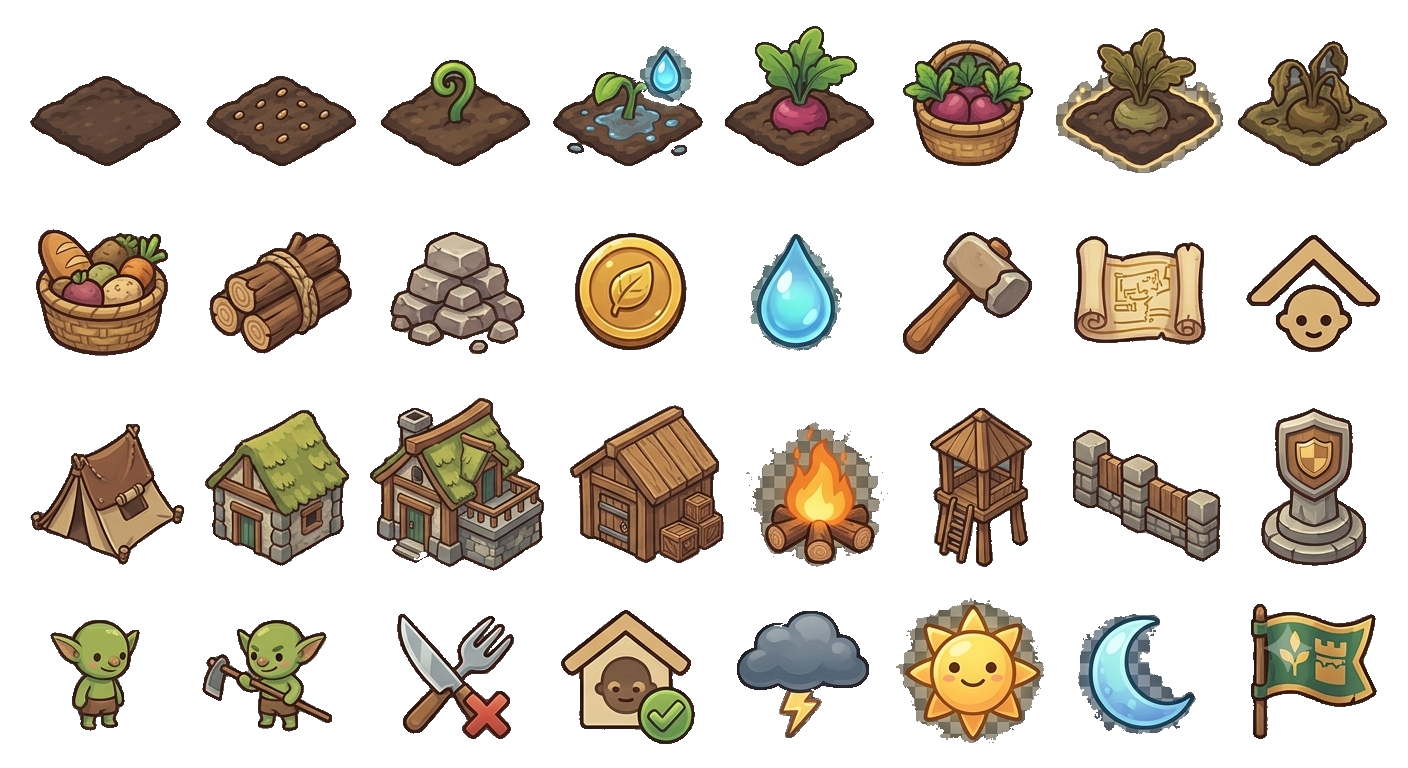
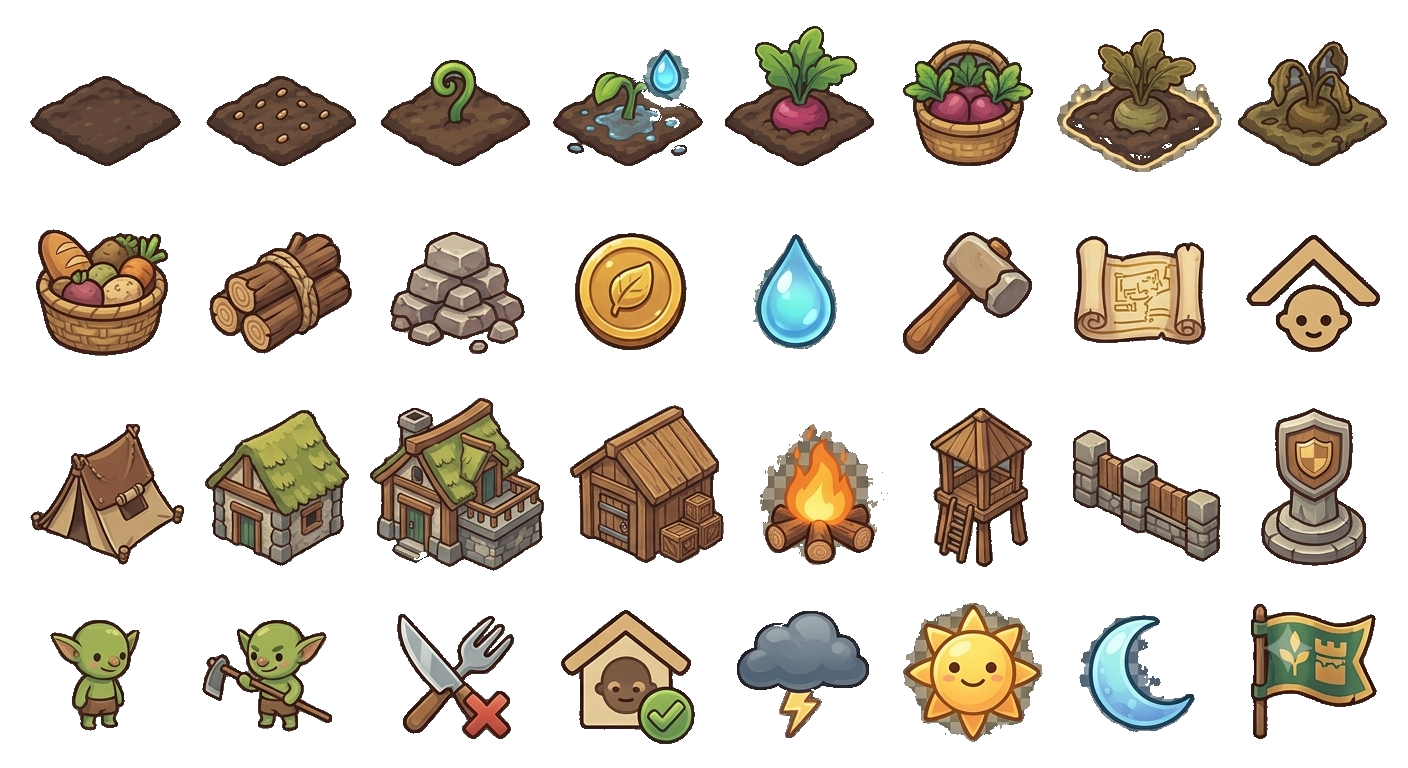
docs: correct farm settlement cleanup candidate

diff --git a/docs/assets/TINY_GOBLIN_ACADEMY_H5_52B_FARM_SETTLEMENT_TARGETED_CLEANUP_CORRECTION.md b/docs/assets/TINY_GOBLIN_ACADEMY_H5_52B_FARM_SETTLEMENT_TARGETED_CLEANUP_CORRECTION.md
@@ -1,0 +1,65 @@
+# Tiny Goblin Academy — H5.52B Farm Settlement Targeted Cleanup Correction
+
+## Purpose
+
+H5.52B records a targeted cleanup correction for the Farm Settlement cleanup candidate after human review found visible baked checkerboard/background remnants on six regions.
+
+This is not a promotion pass. The cleanup candidate remains draft, needs human review, and is not runtime-approved.
+
+## Baseline
+
+- H5.52 commit: `a764222 docs: add farm settlement cleanup candidate`
+- Source sheet: `assets/academy/games/farm-settlement/tga-farm-settlement-sheet-v0.1.png`
+- Current derived cleanup candidate: `assets/academy/games/farm-settlement/derived/tga-farm-settlement-cleaned-v0.1.png`
+- Cleanup manifest: `manifests/academy.farm-settlement.cleanup-candidate.json`
+
+## Human Review Finding
+
+H5.52 was mostly acceptable, but the following regions still showed visible baked checkerboard/background remnants:
+
+- 4 — `farm-settlement.soil-plot-watered-sprout` — Watered sprout soil plot
+- 7 — `farm-settlement.withered-crop-plot` — Withered crop plot
+- 13 — `farm-settlement.water-drop-token` — Water drop token
+- 21 — `farm-settlement.campfire` — Campfire
+- 30 — `farm-settlement.smiling-sun` — Smiling sun icon
+- 31 — `farm-settlement.crescent-moon` — Crescent moon icon
+
+## Correction Method
+
+The correction regenerated only the six target regions. Regions 7, 13, 21, 30, and 31 use a stricter target-only neutral checker/background matte. Region 4 uses restricted halo cleanup around the water-drop side of the sprite so the puddle/soil interior is not overcut.
+
+Non-target regions were preserved from the H5.52 derived sheet. SourceRects were not changed. Regions were not remapped.
+
+## Manifest Updates
+
+- Top-level status remains `draft`.
+- Top-level reviewStatus remains `needs-human-review`.
+- Top-level runtimeEligibility remains `not-runtime-approved`.
+- `gameplayApproval` remains `none`.
+- `placementApproval` remains `none`.
+- Regions 4, 7, 13, 21, 30, and 31 received `correctionAttempt: h5-52b-targeted-cleanup`.
+- Correction history was added at top-level and per corrected region.
+- Risk flags remain preserved as review history.
+
+## Evidence Created
+
+- `assets/academy/evidence/h5-52b-farm-settlement-targeted-cleanup-correction/farm-settlement-targeted-correction-before-after.png`
+- `assets/academy/evidence/h5-52b-farm-settlement-targeted-cleanup-correction/farm-settlement-targeted-correction-on-dark.png`
+- `assets/academy/evidence/h5-52b-farm-settlement-targeted-cleanup-correction/farm-settlement-targeted-correction-table-preview.png`
+- `assets/academy/evidence/h5-52b-farm-settlement-targeted-cleanup-correction/farm-settlement-targeted-correction-summary.png`
+
+## Non-Goals
+
+- No source PNG modification.
+- No region remapping.
+- No sourceRect changes.
+- No non-target cleanup review promotion.
+- No runtime approval.
+- No placement approval.
+- No Farm Settlement gameplay wiring.
+- No scene-anchor work.
+- No functional slot mapping.
+
+## Recommended Next Lane
+
+H5.53 — Farm Settlement Cleanup Human Review

diff --git a/CHANGELOG.md b/CHANGELOG.md
@@ -4,6 +4,8 @@ All notable changes to this project will be documented in this file.
 
 ## Unreleased
 
+* **H5.52B Farm Settlement Targeted Cleanup Correction**: Corrected the H5.52 Farm Settlement cleanup candidate for six human-flagged regions: 4 watered sprout soil plot, 7 withered crop plot, 13 water drop token, 21 campfire, 30 smiling sun, and 31 crescent moon. Regenerated targeted evidence, preserved non-target regions from the H5.52 derived sheet, kept the lane draft / needs-human-review / not-runtime-approved, and did not change source PNGs, sourceRects, gameplay logic, placement approval, functional slot mapping, scene anchors, or game wiring.
+
 * **H5.52 Farm Settlement Cleanup Candidate**: Created a derived transparent cleanup candidate for the 32 H5.51-reviewed Farm Settlement regions. Preserved the 1408x768 layout, kept the source PNG untouched, generated cleanup evidence, and retained fragile glow/fire/weather/sun/moon/banner/goblin edge risks for human review; no sourceRect remapping, scene-anchor planning, functional slot mapping, gameplay logic, runtime approval, or game wiring occurred.
 
 * **H5.50B Farm Settlement Bounds Correction**: Corrected horizontal sourceRect bounds for Farm Settlement regions 1, 2, 3, 4, 10, 17, 18, 19, 20, and 21 after human review flagged right-edge clipping and neighboring-asset bleed. Regenerated bbox/contact/table evidence; no vertical padding changes, cleanup, source PNG edits, gameplay logic, functional slot mapping, or runtime wiring occurred.
@@ -267,3 +269,12 @@ All notable changes to this project will be documented in this file.
 - Preserved the source PNG, reviewed sourceRects, ids, labels, categories, and functional-surface candidate metadata.
 - Kept glow, fire, storm, sun, moon, banner, goblin outline, crop glow, water droplet glow, and thin-shape cleanup risks flagged for human review.
 - No scene-anchor planning, functional slot mapping, gameplay logic, placement approval, runtime approval, or Farm Settlement game wiring occurred.
+
+## H5.52B - Farm Settlement Targeted Cleanup Correction
+
+- Corrected the H5.52 cleanup candidate for six human-flagged regions: 4, 7, 13, 21, 30, and 31.
+- Added targeted correction history to `manifests/academy.farm-settlement.cleanup-candidate.json`.
+- Regenerated `assets/academy/games/farm-settlement/derived/tga-farm-settlement-cleaned-v0.1.png` with non-target regions preserved from the H5.52 derived sheet.
+- Created targeted evidence under `assets/academy/evidence/h5-52b-farm-settlement-targeted-cleanup-correction/`.
+- Kept the cleanup candidate draft / needs-human-review / not-runtime-approved; H5.52B is not a human-review promotion.
+- No source PNG edits, sourceRect changes, game code changes, runtime approval, placement approval, scene-anchor work, functional slot mapping, or Farm Settlement gameplay wiring occurred.

diff --git a/docs/assets/TINY_GOBLIN_ACADEMY_ASSET_SYSTEM_PLAN.md b/docs/assets/TINY_GOBLIN_ACADEMY_ASSET_SYSTEM_PLAN.md
@@ -620,3 +620,7 @@ H5.51 accepted the H5.50B corrected Farm Settlement region mapping for draft cle
 ## H5.52 Farm Settlement Cleanup Candidate Note
 
 H5.52 created a derived transparent cleanup candidate for the 32 H5.51-reviewed Farm Settlement regions at `assets/academy/games/farm-settlement/derived/tga-farm-settlement-cleaned-v0.1.png`, with cleanup metadata recorded in `manifests/academy.farm-settlement.cleanup-candidate.json`. The source PNG remains untouched, the 1408x768 layout and reviewed sourceRects are preserved, and fragile glow/fire/weather/sun/moon/banner/goblin-edge cleanup risks remain flagged for human review. This is draft cleanup/planning evidence only: no scene-anchor planning, functional slot mapping, gameplay logic, runtime approval, placement approval, or Farm Settlement game wiring occurred.
+
+## H5.52B Farm Settlement Targeted Cleanup Correction Note
+
+H5.52B corrected the H5.52 Farm Settlement cleanup candidate for six human-flagged regions: 4 watered sprout soil plot, 7 withered crop plot, 13 water drop token, 21 campfire, 30 smiling sun, and 31 crescent moon. The pass regenerated only the target cleanup regions, preserved non-target regions from the H5.52 derived sheet, and added correction history while keeping the cleanup candidate draft / needs-human-review / not-runtime-approved. This is still not a promotion pass: no source PNG edits, sourceRect changes, runtime approval, placement approval, scene-anchor planning, functional slot mapping, gameplay logic, or Farm Settlement game wiring occurred.
